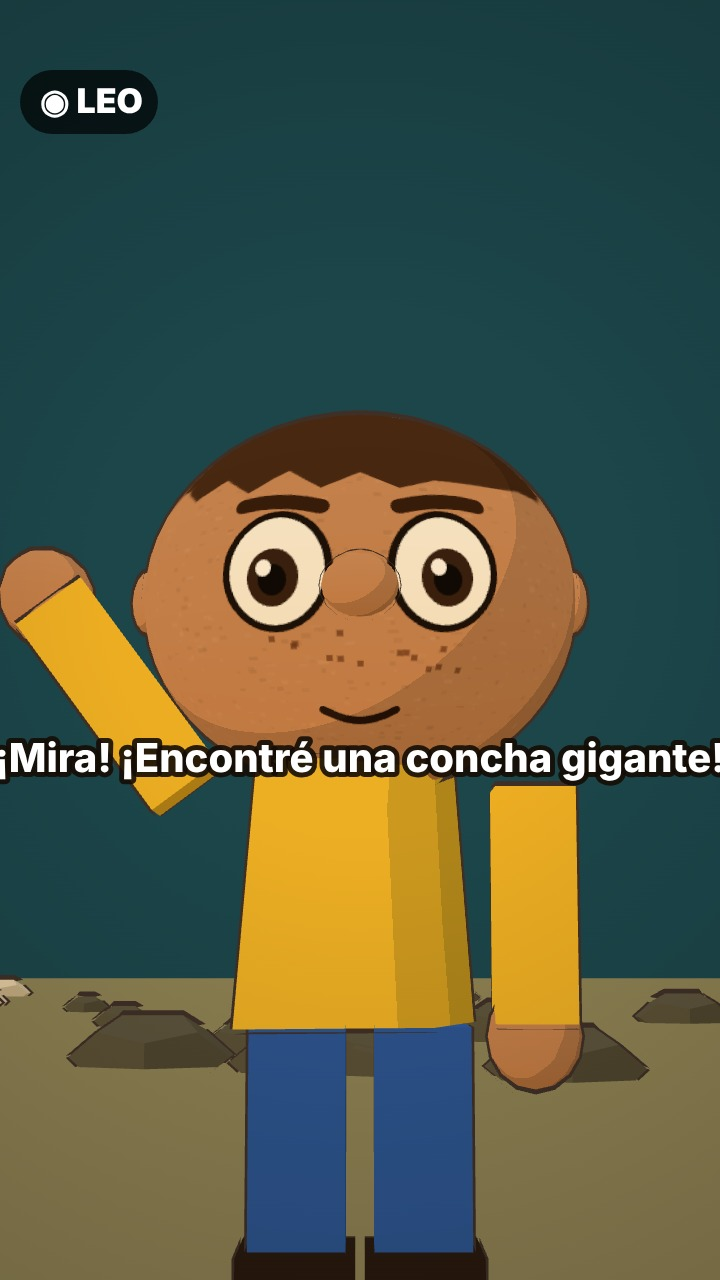
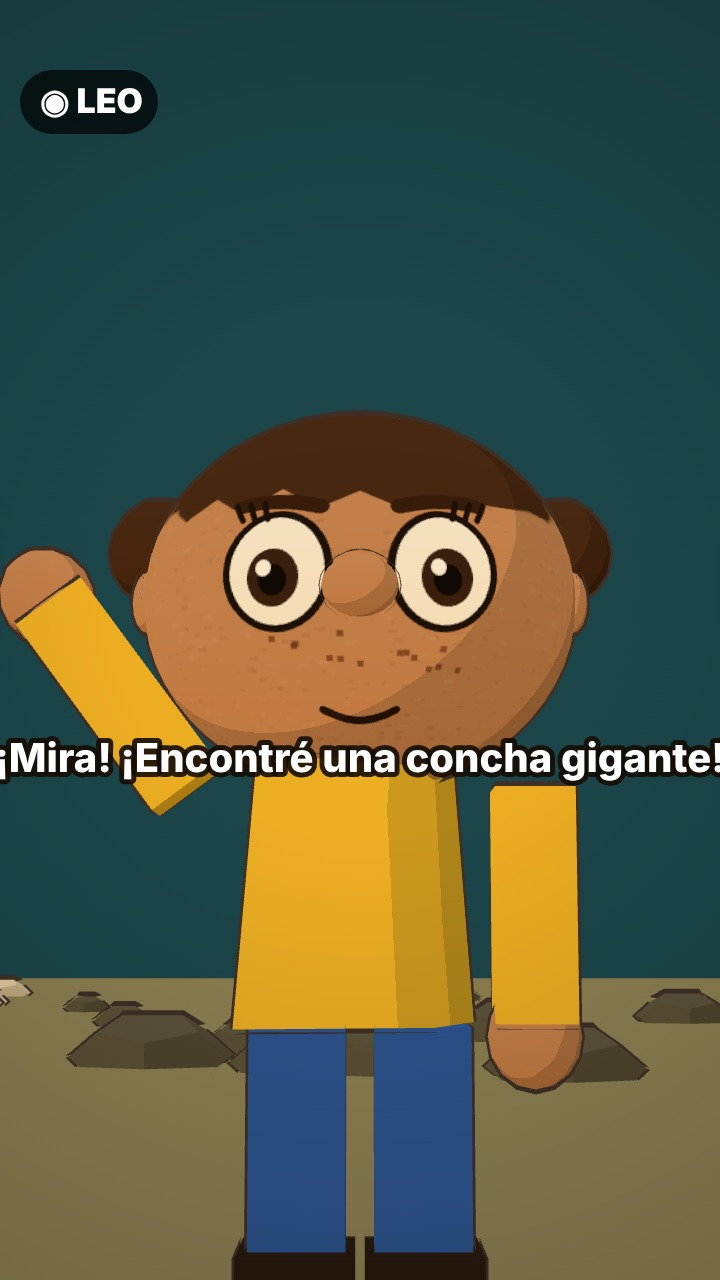
Leo vuelve a ser niña (coletas), voz Lulu
Claude-Session: https://claude.ai/code/session_01464Uwv7piUvh5Q9hg4RwxF

Changed region(s): [[0.1528, 0.3438, 0.8556, 0.4688]]

diff --git a/el-mar-se-fue/render/chars.js b/el-mar-se-fue/render/chars.js
@@ -37,6 +37,7 @@ function faceTex(o) {
     g.fillStyle = o.iris || '#3b2414'; g.beginPath(); g.ellipse(ex + s * 2, ey + 6, 20, 24, 0, 0, Math.PI * 2); g.fill();
     g.fillStyle = '#120c08'; g.beginPath(); g.ellipse(ex + s * 2, ey + 8, 11, 13, 0, 0, Math.PI * 2); g.fill();
     g.fillStyle = '#ffffff'; g.beginPath(); g.ellipse(ex + s * 2 - 7, ey - 2, 6, 7, 0, 0, Math.PI * 2); g.fill();
+    if (o.lashes) { g.strokeStyle = '#1e140c'; g.lineWidth = 5; for (const k of [-0.6, 0, 0.6]) { g.beginPath(); g.moveTo(ex + s * (20 + k * 18), ey - 44); g.lineTo(ex + s * (28 + k * 22), ey - 60); g.stroke(); } }
     if (o.old) { g.strokeStyle = 'rgba(70,40,20,0.5)'; g.lineWidth = 4; g.beginPath(); g.moveTo(ex + s * 46, ey - 6); g.lineTo(ex + s * 64, ey - 12); g.moveTo(ex + s * 46, ey + 8); g.lineTo(ex + s * 64, ey + 10); g.stroke(); }
   }
   // mouth
@@ -88,7 +89,7 @@ function person(o) {
 const CAST = {
   chuy: { name: 'DON CHUY', skin: '#b07a4e', hair: '#b9b4aa', brow: '#e8e2d6', shirt: 0x5a3b28, pants: 0x3a2e24, mustache: '#efe7da', old: true, hat: true, hairLine: 150, buttons: true },
   dani: { name: 'DANI', skin: '#9a6442', hair: '#1c1612', brow: '#1c1612', shirt: 0xe9e2d2, pants: 0x2b2d3a, hairLine: 175, mouth: 'open', worried: true },
-  leo: { name: 'LEO', kid: true, s: 0.8, skin: '#c88d5f', hair: '#4a2c17', brow: '#3a2010', shirt: 0xf2c230, pants: 0x2e5fb8, hairLine: 170, freckles: true, mouth: 'smile' },
+  leo: { name: 'LEO', kid: true, s: 0.8, skin: '#c88d5f', hair: '#4a2c17', hairC: 0x4a2c17, pigtails: true, lashes: true, brow: '#3a2010', shirt: 0xf2c230, pants: 0x2e5fb8, hairLine: 190, freckles: true, mouth: 'smile' },
   leoMal: { name: 'LEO', kid: true, s: 0.8, skin: '#a9805e', hair: '#3a2414', brow: '#2a1810', shirt: 0xb8962a, pants: 0x24467e, hairLine: 170, drips: true },
   tu: { name: 'TÚ', skin: '#c68a5e', hair: '#5a3720', brow: '#3a2414', shirt: 0xc85a4a, pants: 0x3b3b55, hairLine: 175 },
 };
